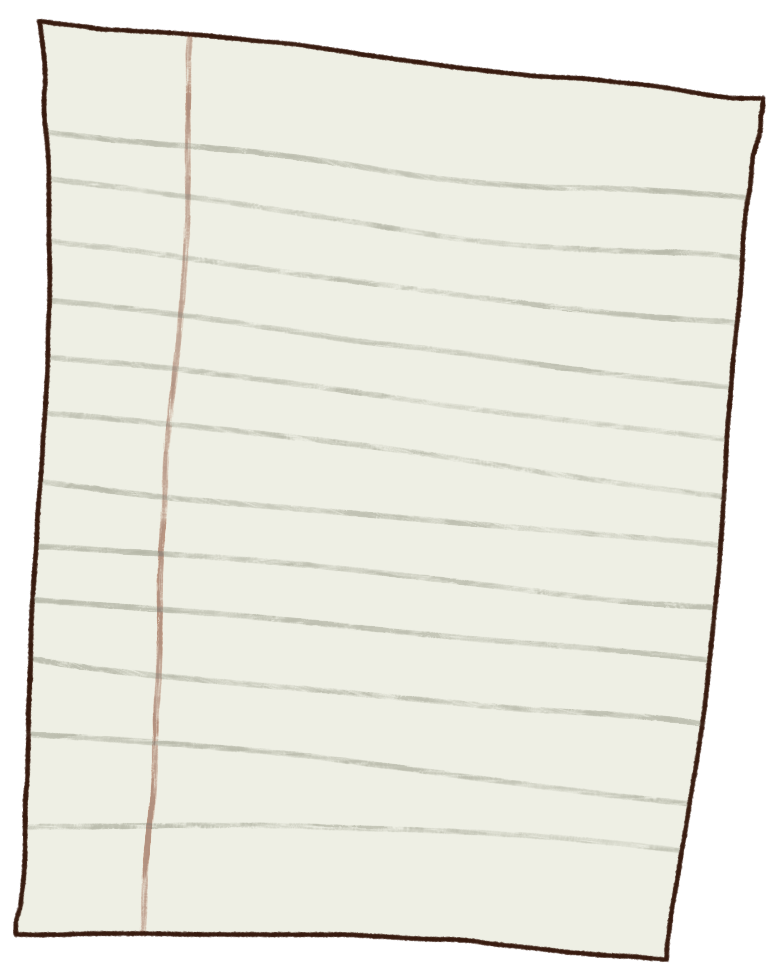
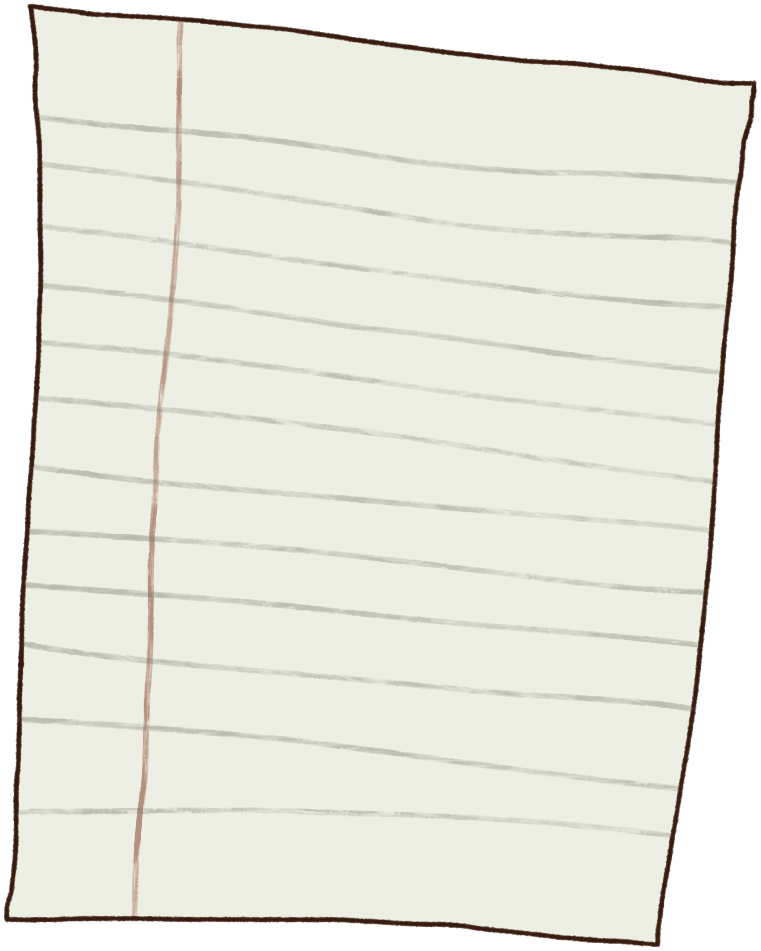
{LB}journal mechanic working

diff --git a/sketch.js b/sketch.js
@@ -110,8 +110,22 @@ let images = {
       // journal.png hasn't been through the pre-shrink pass the other props
       // have (native 337x342), so 0.38 is a real, deliberately picked
       // display scale, not a stand-in for 1 — sized and placed by eye to
-      // rest on the desk's left side, in front of the laptop.
-      { id: "journal", path: "journal/journal.png", coordinates_by_percentage: [44, 30], scale: 0.38 },
+      // rest on the desk's left side, in front of the laptop. Clicking it
+      // opens journalpopup — see the "JOURNAL MECHANIC" section further
+      // down for how the entries/paper cycling work.
+      {
+        id: "journal", path: "journal/journal.png", coordinates_by_percentage: [43, 28], scale: 0.38, shake: true,
+        children: [
+          {
+            // "journnal popup background.png" (typo is in the actual
+            // filename) hasn't been pre-shrunk either (native 1056x921),
+            // so 0.9 is a deliberately picked display scale.
+            id: "journalpopup", path: "journal/journnal popup background.png",
+            coordinates_by_percentage: [50, 50], scale: 0.9,
+            do_dark_background: true,
+          },
+        ],
+      },
 
       { path: "main_room/teapot.png", coordinates_by_percentage: [91.5, 40], scale: 1 },
       { path: "main_room/notes.png", coordinates_by_percentage: [93.2, 35], scale: 1 },
@@ -1168,6 +1182,112 @@ function handleWizardGameClick(x, y) {
   }
 }
 
+// -------------------- JOURNAL MECHANIC --------------------
+// Clicking journal opens journalpopup (a single do_dark_background layer,
+// the same trick bank_home/coffeecounter/wizardgame use). Its left page is
+// blank in the art itself — a loose sheet of journal_paper1/2/3.png is drawn
+// on top of it there, cycling 1 -> 2 -> 3 -> 1... on every click, with the
+// current JOURNAL_ENTRIES entry's text drawn on top of that. Entries show
+// highest-numbered (most recently written) first, counting down to entry 1
+// and then looping back to the top — independent of the paper art's own
+// 1/2/3 cycle. Closing the popup is handled by the generic click logic in
+// the mousedown handler below, the same as every other app.
+
+const JOURNAL_FOLDER = IMAGES_FOLDER + "journal/";
+const journalImageCache = {};
+function journalImage(filename) {
+  if (!journalImageCache[filename]) {
+    const img = new Image();
+    img.onerror = () => pushError(`Missing image: ${JOURNAL_FOLDER}${filename}.png`);
+    img.src = `${JOURNAL_FOLDER}${filename}.png`;
+    journalImageCache[filename] = img;
+  }
+  return journalImageCache[filename];
+}
+const JOURNAL_PAPER_FILENAMES = ["journal_paper1", "journal_paper2", "journal_paper3"];
+JOURNAL_PAPER_FILENAMES.forEach(journalImage);
+
+// Add entries here in writing order (entry 1 first, entry 2 next, ...) —
+// the journal itself shows them in reverse (see resetJournal/
+// handleJournalClick below), so the last one written is always what comes
+// up first. Keep each one short enough to fit the font size in
+// drawJournal — there's no truncation/scrolling.
+const JOURNAL_ENTRIES = [
+  "Entry 1 — replace this with your first journal entry.",
+  "Entry 2 — replace this with your second journal entry.",
+  "Entry 3 — replace this with your third journal entry.",
+];
+
+// Where the loose paper sits on journalpopup's own blank left page, in the
+// popup art's native pixel space (1056x921) — scaled by whatever
+// journalpopup's own on-canvas scale ends up being, the same way
+// WIZARD_STAR_OFFSET scales with WIZARD_CURSOR_SCALE.
+const JOURNAL_PAGE_RECT = { x: 80, y: 120, w: 430, h: 610 };
+
+let journalEntryIndex = 0; // counts down from JOURNAL_ENTRIES.length - 1
+let journalPaperIndex = 0; // cycles through JOURNAL_PAPER_FILENAMES
+
+// Called when journal is opened, so it always starts on the most recent entry.
+function resetJournal() {
+  journalEntryIndex = JOURNAL_ENTRIES.length - 1;
+  journalPaperIndex = 0;
+}
+
+function journalPageRect(node) {
+  const w = node.img.width * node.scale;
+  const h = node.img.height * node.scale;
+  const { x, y } = topLeftFor(node.coordinates_by_percentage, w, h);
+  return {
+    x: x + JOURNAL_PAGE_RECT.x * node.scale,
+    y: y + JOURNAL_PAGE_RECT.y * node.scale,
+    w: JOURNAL_PAGE_RECT.w * node.scale,
+    h: JOURNAL_PAGE_RECT.h * node.scale,
+  };
+}
+
+// Draws the current loose paper (cycling 1/2/3) "contain"-fitted into the
+// popup's left page — scaled to fit within the page rect while keeping its
+// own aspect ratio, then centered there — with the current journal entry's
+// text on top, sized to take up most of the sheet.
+function drawJournal(node) {
+  const rect = journalPageRect(node);
+
+  const paperImg = journalImage(JOURNAL_PAPER_FILENAMES[journalPaperIndex]);
+  if (!paperImg.complete || paperImg.naturalWidth === 0) return;
+
+  const fitScale = Math.min(rect.w / paperImg.width, rect.h / paperImg.height);
+  const pw = paperImg.width * fitScale;
+  const ph = paperImg.height * fitScale;
+  const px = rect.x + (rect.w - pw) / 2;
+  const py = rect.y + (rect.h - ph) / 2;
+  ctx.drawImage(paperImg, px, py, pw, ph);
+
+  if (!JOURNAL_ENTRIES.length) return;
+
+  const marginX = pw * 0.12;
+  const marginTop = ph * 0.1;
+  ctx.save();
+  ctx.fillStyle = "black";
+  ctx.font = "28px Handwriting, cursive";
+  ctx.textAlign = "left";
+  ctx.textBaseline = "middle";
+
+  const lines = wrapText(JOURNAL_ENTRIES[journalEntryIndex], pw - marginX * 2);
+  const lineHeight = 34;
+  const startY = py + marginTop + lineHeight / 2;
+
+  lines.forEach((line, i) => ctx.fillText(line, px + marginX, startY + i * lineHeight));
+  ctx.restore();
+}
+
+// Advances the paper (1 -> 2 -> 3 -> 1...) and descends the entry shown
+// (looping back to the top once it passes entry 1) on every click inside
+// the popup.
+function handleJournalClick() {
+  journalPaperIndex = (journalPaperIndex + 1) % JOURNAL_PAPER_FILENAMES.length;
+  journalEntryIndex = journalEntryIndex <= 0 ? JOURNAL_ENTRIES.length - 1 : journalEntryIndex - 1;
+}
+
 // -------------------- DRAW LOOP --------------------
 
 function draw() {
@@ -1202,6 +1322,7 @@ function draw() {
       if (node.id === "coffeecounter") safeTry("coffee counter", drawCoffeeCounter);
       if (node.id === "bank_home") safeTry("bank balance", () => drawBankBalance(node));
       if (node.id === "wizardgame") safeTry("wizard game", () => drawWizardGame(node));
+      if (node.id === "journalpopup") safeTry("journal", () => drawJournal(node));
 
       node.children.forEach((child) => {
         if (hidden.has(child.id) || !child.img) return;
@@ -1276,6 +1397,17 @@ canvas.addEventListener("mousedown", () => {
     }
   }
 
+  if (topNode.id === "journalpopup") {
+    const w = topNode.img.width * topNode.scale;
+    const h = topNode.img.height * topNode.scale;
+    const { x, y } = topLeftFor(topNode.coordinates_by_percentage, w, h);
+    const insideJournal = mouseX >= x && mouseX <= x + w && mouseY >= y && mouseY <= y + h;
+    if (insideJournal) {
+      handleJournalClick();
+      return;
+    }
+  }
+
   if (topNode.id === "coffeecounter") {
     const w = topNode.img.width * topNode.scale;
     const h = topNode.img.height * topNode.scale;
@@ -1314,6 +1446,9 @@ canvas.addEventListener("mousedown", () => {
       openPath.push(...node.children);
     } else if (node.id === "app_wizard") {
       resetWizardGame(); // fresh score/pieces every time it's opened
+      openPath.push(...node.children);
+    } else if (node.id === "journal") {
+      resetJournal(); // start back on the most recent entry every time it's opened
       openPath.push(...node.children);
     } else {
       openPath.push(...node.children);